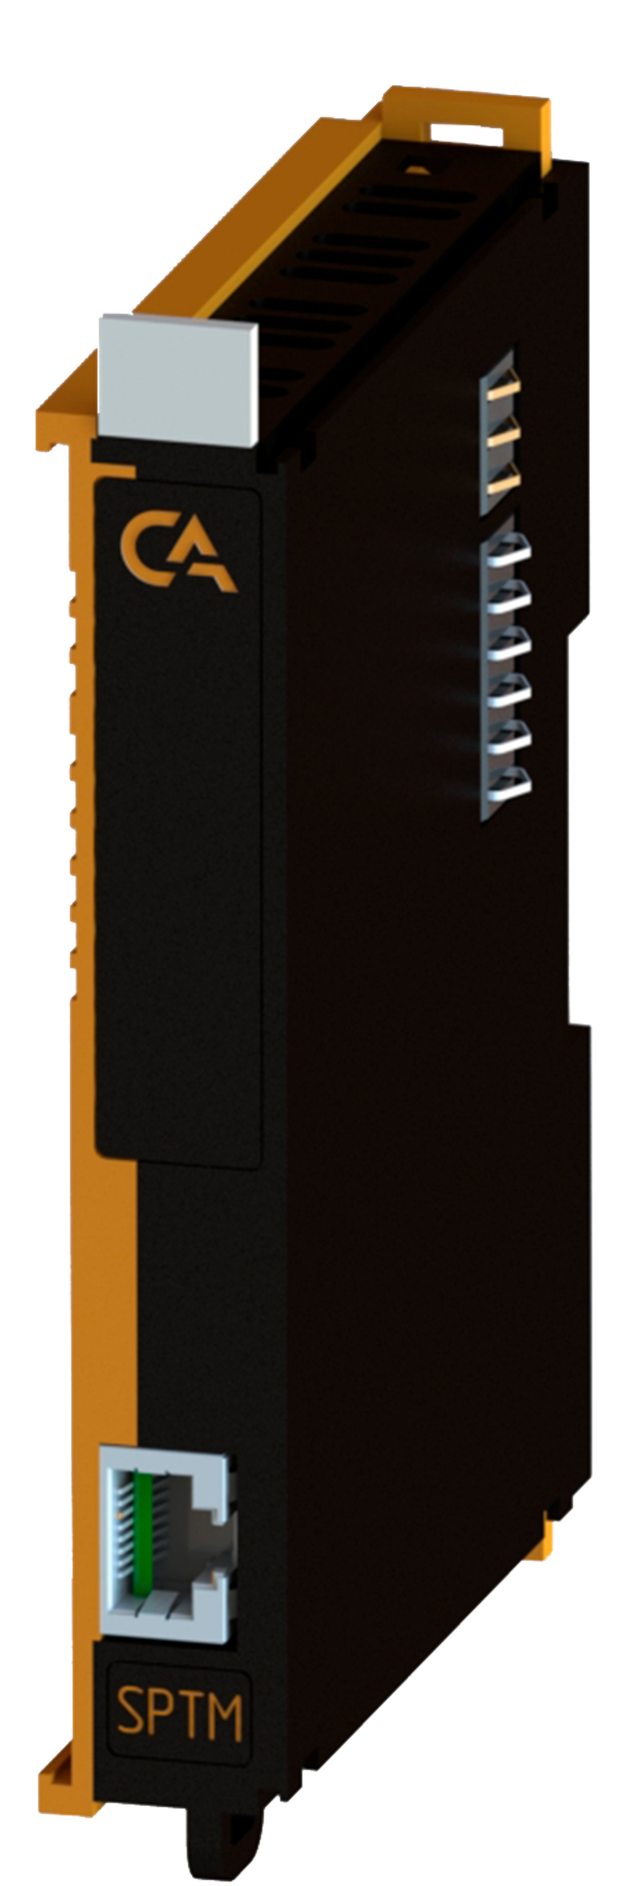
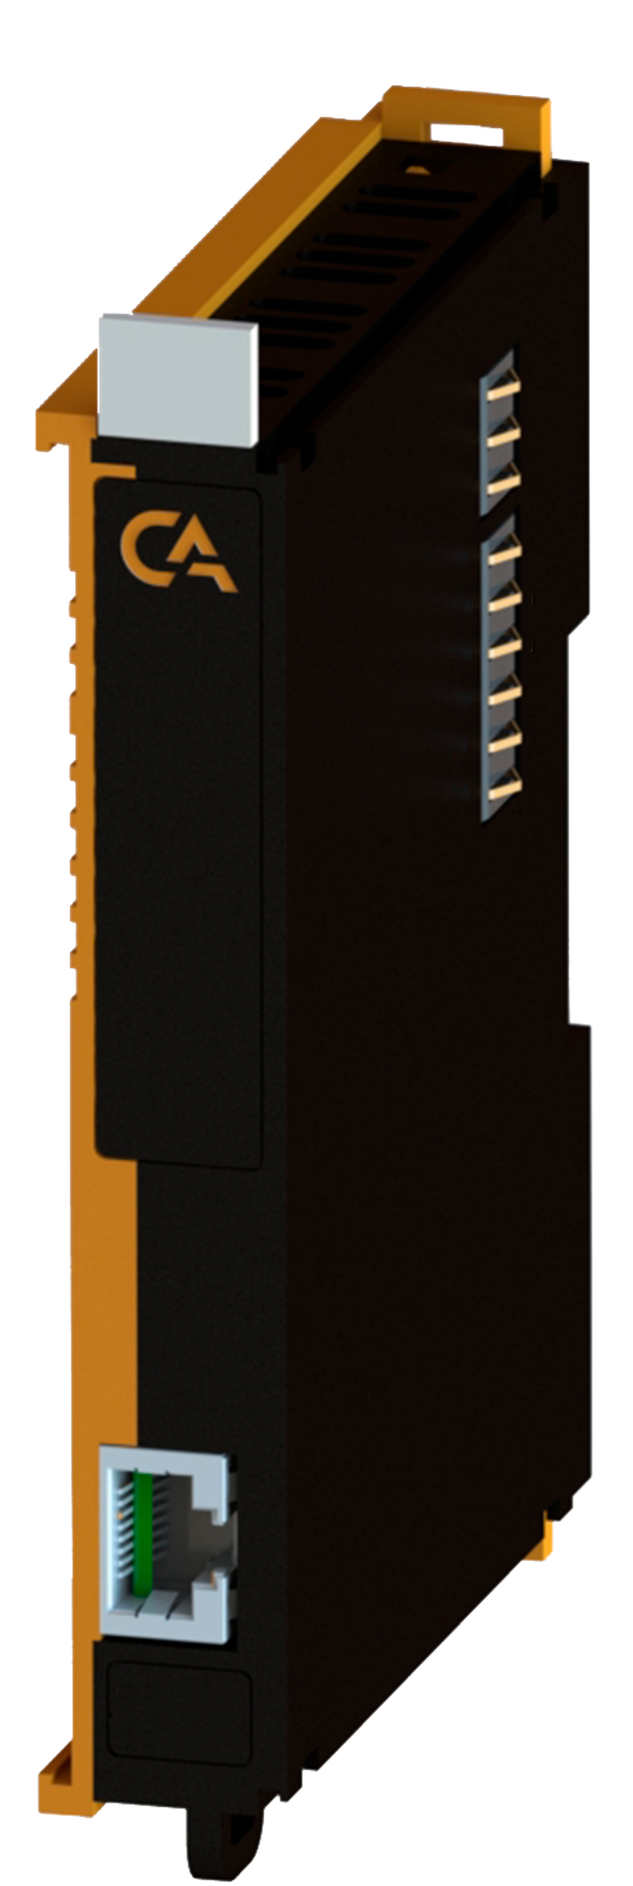
Обновил инфу по модулям

Changed region(s): [[0.7628, 0.2797, 0.8543, 0.435], [0.1831, 0.8701, 0.3967, 0.9322]]

diff --git a/docs/user_manual/IFHART.md b/docs/user_manual/IFHART.md
@@ -1,4 +1,4 @@
-# Модуль интерфейсный CAN IPCSA-OG-IFCAN
+# Модуль интерфейсный CAN IPCSA-OG-IFHART
 
 ## Общие сведения
 
@@ -6,21 +6,24 @@
     На текущий момент модуль на стадии разработки. Начало тестирования запланировано на апрель 2026 года
 <div class="grid cards" markdown>
 
-![Image title](../img/modules/IF485_422.png){ width="150" align=left  }
-Модуль интерфейсный RS-485/422 (IF485/422) (арт. IPCSA-OG-IF485/422) является модулем расширения и предназначен для подключения интерфейсов RS-485 и RS-422 к ПЛК
+![Image title](../img/modules/IFHART.png){ width="150" align=left  }
+Модуль аналогового ввода IFHART (арт. IPCSA-OG-IFHART) является 4-канальным модулем расширения и предназначен для приема сигналов по интерфейсу HART.
 </div>
-
+ 
 ## Технические характеристики 
-| Характеристика                             | Значение                          |
-|--------------------------------------------|-----------------------------------|
-| Максимальная потребляемая мощность, Вт     | 2,5                               |
-| Количество подключаемых интерфейсов RS-422 | 1                                 |
-| Количество подключаемых интерфейсов RS-485 | 1                                 |
-| Скорость передачи данных, Мбит/с           | до 20 по каждому интерфейсу       |
-| Максимальная длина кабеля, м               | 1000                              |
-| Сечение проводника, мм²                    | От 0,2 до 1,5                     |
-| Масса, г                                   | 120                               |
-| Габариты ВхШхГ, мм                         | 126х21х90                         |
+| Характеристика                          | Значение                          |
+|-----------------------------------------|-----------------------------------|
+| Максимальная потребляемая мощность, Вт  | 4                                 |
+| Количество входных каналов              | 4                                 |
+| Входное сопротивление, Ом               | 270                               |
+| Поддерживаемые интерфейсы               | 0...20 мА, 4...20 мА              |
+| Погрешность модуля, %                   | ±0.3 от полной шкалы              |
+| Время преобразования на все каналы, мс  | 5                                 |
+| Разрядность АЦП, бит                    | 16                                |
+| Гальваническая изоляция                 | Между входной и выходной логикой  |
+| Сечение проводника, мм²                 | От 0,2 до 1,5                     |
+| Масса, г                                | 125                               |
+| Габариты ВхШхГ, мм                      | 126х21,3х90                       |
 
 ## Эксплуатационные характеристики
 | Характеристика                   | Значение           |
@@ -40,26 +43,26 @@
 ![Image title](../img/connection/connector_18pin.png){ width="170";  }
 </div>
 
-| Обозначение | Наименование канала | Описание                            |
-|-------------|---------------------|-------------------------------------|
-| 1           | RX(A)-              | Контакт A интерфейса RS-422         |
-| 2           | RX(B)+              | Контакт B интерфейса RS-422         |
-| 3           | TX(Z)-              | Контакт Z интерфейса RS-422         |
-| 4           | TX(Y)+              | Контакт Y интерфейса RS-422         |
-| 5           | GND                 | Общий контакт интерфей-са RS-422    |
-| 6           | GND                 | Общий контакт интерфей-са RS-422    |
-| 7           | -                   | Не используется                     |
-| 8           | -                   | Не используется                     |
-| 9           | -                   | Не используется                     |
-| 10          | -                   | Не используется                     |
-| 11          | -                   | Не используется                     |
-| 12          | -                   | Не используется                     |
-| 13          | -                   | Не используется                     |
-| 14          | -                   | Не используется                     |
-| 15          | 485(A)              | Плюс устройства 8                   |
-| 16          | 485 (B)             | Минус устройства 8                  |
-| 17          | GND                 | Общий контакт интерфей-са RS-485    |
-| 18          | GND                 | Общий контакт интерфей-са RS-485    |
+| Обозначение | Наименование канала | Описание      |
+|-------------|---------------------|---------------|
+| 1           | HART1(+)            | Канал 1 +     |
+| 2           | HART1(-)            | Канал 1 -     |
+| 3           | HART2(+)            | Канал 2 +     |
+| 4           | HART2(-)            | Канал 2 -     |
+| 5           | HART3(+)            | Канал 3 +     |
+| 6           | HART3(-)            | Канал 3 -     |
+| 7           | HART4(+)            | Канал 4 +     |
+| 8           | HART4(-)            | Канал 4 -     |
+| 9           | GND                 | Общий контакт |
+| 10          | GND                 | Общий контакт |
+| 11          | GND                 | Общий контакт |
+| 12          | GND                 | Общий контакт |
+| 13          | GND                 | Общий контакт |
+| 14          | GND                 | Общий контакт |
+| 15          | GND                 | Общий контакт |
+| 16          | GND                 | Общий контакт |
+| 17          | GND                 | Общий контакт |
+| 18          | GND                 | Общий контакт |
 
 ## Индикация
 | Обозначение | Индикация | Показатель |

diff --git a/docs/user_manual/IFCAN.md b/docs/user_manual/IFCAN.md
@@ -6,7 +6,7 @@
     На текущий момент модуль на стадии разработки. Начало тестирования запланировано на апрель 2026 года
 <div class="grid cards" markdown>
 
-![Image title](../img/modules/IF485_422.png){ width="150" align=left  }
+![Image title](../img/modules/IFCAN.png){ width="150" align=left  }
 Модуль интерфейсный RS-485/422 (IF485/422) (арт. IPCSA-OG-IF485/422) является модулем расширения и предназначен для подключения интерфейсов RS-485 и RS-422 к ПЛК
 
 </div>
@@ -15,8 +15,7 @@
 | Характеристика                             | Значение                          |
 |--------------------------------------------|-----------------------------------|
 | Максимальная потребляемая мощность, Вт     | 2,5                               |
-| Количество подключаемых интерфейсов RS-422 | 1                                 |
-| Количество подключаемых интерфейсов RS-485 | 1                                 |
+| Количество подключаемых интерфейсов CAN    | 2                                 |
 | Скорость передачи данных, Мбит/с           | до 20 по каждому интерфейсу       |
 | Максимальная длина кабеля, м               | 1000                              |
 | Сечение проводника, мм²                    | От 0,2 до 1,5                     |
@@ -42,24 +41,24 @@
 
 | Обозначение | Наименование канала | Описание                            |
 |-------------|---------------------|-------------------------------------|
-| 1           | RX(A)-              | Контакт A интерфейса RS-422         |
-| 2           | RX(B)+              | Контакт B интерфейса RS-422         |
-| 3           | TX(Z)-              | Контакт Z интерфейса RS-422         |
-| 4           | TX(Y)+              | Контакт Y интерфейса RS-422         |
-| 5           | GND                 | Общий контакт интерфей-са RS-422    |
-| 6           | GND                 | Общий контакт интерфей-са RS-422    |
-| 7           | -                   | Не используется                     |
-| 8           | -                   | Не используется                     |
-| 9           | -                   | Не используется                     |
-| 10          | -                   | Не используется                     |
-| 11          | -                   | Не используется                     |
-| 12          | -                   | Не используется                     |
-| 13          | -                   | Не используется                     |
-| 14          | -                   | Не используется                     |
-| 15          | 485(A)              | Плюс устройства 8                   |
-| 16          | 485 (B)             | Минус устройства 8                  |
-| 17          | GND                 | Общий контакт интерфей-са RS-485    |
-| 18          | GND                 | Общий контакт интерфей-са RS-485    |
+| 1           | CAN1(H)             | Канал 1 H                           |
+| 2           | CAN1(L)             | Канал 1 L                           |
+| 3           | CAN(H)              | Канал 2 H                           |
+| 4           | CAN(L)              | Канал 2 L                           |
+| 5           | GND                 | Общий контакт                       |
+| 6           | GND                 | Общий контакт                       |
+| 7           | GND                 | Общий контакт                       |
+| 8           | GND                 | Общий контакт                       |
+| 9           | GND                 | Общий контакт                       |
+| 10          | GND                 | Общий контакт                       |
+| 11          | GND                 | Общий контакт                       |
+| 12          | GND                 | Общий контакт                       |
+| 13          | GND                 | Общий контакт                       |
+| 14          | GND                 | Общий контакт                       |
+| 15          | GND                 | Общий контакт                       |
+| 16          | GND                 | Общий контакт                       |
+| 17          | GND                 | Общий контакт                       |
+| 18          | GND                 | Общий контакт                       |
 
 ## Индикация
 | Обозначение | Индикация | Показатель |

diff --git a/docs/user_manual/AIVS.md b/docs/user_manual/AIVS.md
@@ -8,7 +8,7 @@
 
 <div class="grid cards" markdown>
 
-![Image title](../img/modules/AIC.png){ width="150" align=left  }
+![Image title](../img/modules/AIVS.png){ width="150" align=left  }
 Модуль аналогового ввода напряжения AIVS (арт. IPCSA-OG-AIVS) является 4-х канальным модулем расширения и предназначен для получения аналоговых сигналов от датчиков виброскорости типа МВ38
 </div>
 
@@ -42,21 +42,21 @@
 
 | Обозначение | Наименование канала | Описание          |
 |-------------|---------------------|-------------------|
-| 1           | AI1                 | Входной канал 1   |
-| 2           | GND                 | Общий контакт     |
-| 3           | AI2                 | Входной канал 2   |
-| 4           | GND                 | Общий контакт     |
-| 5           | AI3                 | Входной канал 3   |
-| 6           | GND                 | Общий контакт     |
-| 7           | AI4                 | Входной канал 4   |
-| 8           | GND                 | Общий контакт     |
-| 9           | AI5                 | Входной канал 5   |
+| 1           | AI1(P)                | Входной канал 1 (+)|
+| 2           | AI1(N)                | Входной канал 1 (-)|
+| 3           | AI2(P)                | Входной канал 2 (+)|
+| 4           | AI2(N)                | Входной канал 2 (-)|
+| 5           | AI3(P)                | Входной канал 3 (+)|
+| 6           | AI3(N)                | Входной канал 3 (-)|
+| 7           | AI4(P)                | Входной канал 4 (+)|
+| 8           | AI4(N)                | Входной канал 4 (-)|
+| 9           | GND                 | Общий контакт     |
 | 10          | GND                 | Общий контакт     |
-| 11          | AI6                 | Входной канал 6   |
+| 11          | GND                 | Общий контакт     |
 | 12          | GND                 | Общий контакт     |
-| 13          | AI7                 | Входной канал 7   |
+| 13          | GND                 | Общий контакт     |
 | 14          | GND                 | Общий контакт     |
-| 15          | AI8                 | Входной канал 8   |
+| 15          | GND                 | Общий контакт     |
 | 16          | GND                 | Общий контакт     |
 | 17          | GND                 | Общий контакт     |
 | 18          | GND                 | Общий контакт     |

diff --git a/docs/user_manual/AISCT.md b/docs/user_manual/AISCT.md
@@ -42,25 +42,24 @@
 
 | Обозначение | Наименование канала | Описание          |
 |-------------|---------------------|-------------------|
-| 1           | AI1                 | Входной канал 1   |
-| 2           | GND                 | Общий контакт     |
-| 3           | AI2                 | Входной канал 2   |
-| 4           | GND                 | Общий контакт     |
-| 5           | AI3                 | Входной канал 3   |
-| 6           | GND                 | Общий контакт     |
-| 7           | AI4                 | Входной канал 4   |
+| 1           | SIN1(P)               | Входной канал 1 (+ sin)   |
+| 2           | SIN1(N)               | Входной канал 1 (- sin)    |
+| 3           | COS1(P)               | Входной канал 1 (+ cos)   |
+| 4           | COS1(N)               | Входной канал 1 (- cos)     |
+| 5           | EXO1(P)               | Выход генератора частоты возбуждения 1 (+)  |
+| 6           | EXO1(N)               | Выход генератора частоты возбуждения 1 (-)     |
+| 7           | GND                 | Общий контакт   |
 | 8           | GND                 | Общий контакт     |
-| 9           | AI5                 | Входной канал 5   |
-| 10          | GND                 | Общий контакт     |
-| 11          | AI6                 | Входной канал 6   |
-| 12          | GND                 | Общий контакт     |
-| 13          | AI7                 | Входной канал 7   |
-| 14          | GND                 | Общий контакт     |
-| 15          | AI8                 | Входной канал 8   |
+| 9           | SIN2(P)               | Входной канал 2 (+ sin)   |
+| 10          | SIN2(N)               | Входной канал 2 (- sin)     |
+| 11          | COS2(P)               | Входной канал 2 (+ cos)   |
+| 12          | COS2(N)               | Входной канал 2 (- cos)     |
+| 13          | EXO2(P)               | Выход генератора частоты возбуждения 2 (+)   |
+| 14          | EXO2(N)               | Выход генератора частоты возбуждения 2 (-)     |
+| 15          | GND                 | Общий контакт    |
 | 16          | GND                 | Общий контакт     |
 | 17          | GND                 | Общий контакт     |
 | 18          | GND                 | Общий контакт     |
-
 
 ## Индикация
 | Обозначение | Индикация | Показатель |

diff --git a/docs/user_manual/IF232.md b/docs/user_manual/IF232.md
@@ -1,4 +1,4 @@
-# Модуль интерфейсный CAN IPCSA-OG-IFCAN
+# Модуль интерфейсный CAN IPCSA-OG-IF232
 
 ## Общие сведения
 
@@ -7,16 +7,15 @@
 
 <div class="grid cards" markdown>
 
-![Image title](../img/modules/IF485_422.png){ width="150" align=left  }
-Модуль интерфейсный RS-485/422 (IF485/422) (арт. IPCSA-OG-IF485/422) является модулем расширения и предназначен для подключения интерфейсов RS-485 и RS-422 к ПЛК
+![Image title](../img/modules/IF232.png){ width="150" align=left  }
+Модуль интерфейса IFCAN (арт. IPCSA-OG-IFCAN) является 2-канальным модулем расширения и предназначен для обмена данными по интерфейсу CAN
 </div>
 
 ## Технические характеристики 
 | Характеристика                             | Значение                          |
 |--------------------------------------------|-----------------------------------|
 | Максимальная потребляемая мощность, Вт     | 2,5                               |
-| Количество подключаемых интерфейсов RS-422 | 1                                 |
-| Количество подключаемых интерфейсов RS-485 | 1                                 |
+| Количество подключаемых интерфейсов RS-232 | 2                                 |
 | Скорость передачи данных, Мбит/с           | до 20 по каждому интерфейсу       |
 | Максимальная длина кабеля, м               | 1000                              |
 | Сечение проводника, мм²                    | От 0,2 до 1,5                     |

diff --git a/docs/user_manual/SPSE.md b/docs/user_manual/SPSE.md
@@ -6,10 +6,11 @@
 
 <div class="grid cards" markdown>
 
-![Image title](../img/modules/SPTM.png){ width="150" align=left  }
+![Image title](../img/modules/SPSE.png){ width="150" align=left  }
 Модуль расширения коммутации (арт. IPCSA-OG-SPSE) является модулем расширения и предназначен для организации сложных топологий путем разветвления соединений в системе автоматизации.  
 
 </div>
+
 
 ## Технические характеристики 
 | Характеристика                             | Значение          |

diff --git a/docs/user_manual/AO.md b/docs/user_manual/AO.md
@@ -8,7 +8,7 @@
 
 <div class="grid cards" markdown>
 
-![Image title](../img/modules/AITR.png){ width="150" align=left  }
+![Image title](../img/modules/AO.png){ width="150" align=left  }
 Модуль аналогового вывода (AO) (арт. IPCSA-OG-AO) является 8-ми канальным модулем расширения и предназначен для выдачи аналоговых сигналов на внешние устройства.  
 Каждый канал модуля может выдавать постоянное напряжение или постоянный ток.
 </div>
